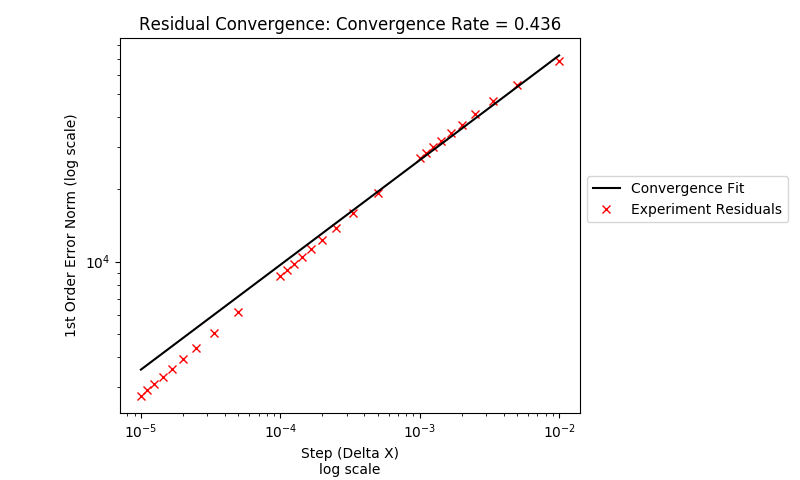
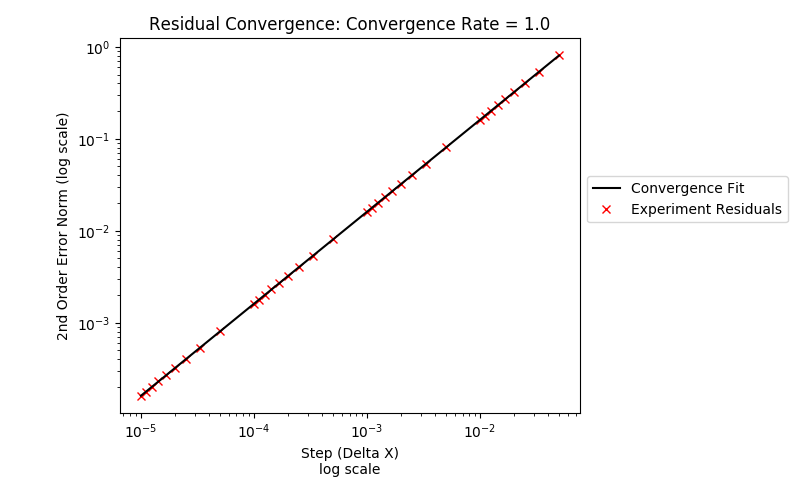
Updated error norms

diff --git a/homework_7/question_2.py b/homework_7/question_2.py
@@ -47,11 +47,7 @@ def p_norm(numerical: np.ndarray,
     :param order: Order of the p-norm summation
     :return: Norm Error
     """
-    errors = [
-        abs(aprx ** (1+n) - exct ** (1+n)) ** order
-        for n, (aprx, exct) in enumerate(zip(numerical, exact))
-    ]
-    return (dx * sum(errors)) ** (1 / order)
+    return (dx * sum(abs(numerical - exact) ** order)) ** (1 / order)
 
 
 def convergence_fit(num_points: int, a: float, k: float) -> float:
@@ -71,13 +67,13 @@ if __name__ == "__main__":
     output_dir.mkdir(parents=True, exist_ok=True)
 
     p_norms = {}
-    for magnitude in range(2, 5):
+    for magnitude in range(1, 5):
         for i in range(1, 11):
             step = 1 / (i * 10 ** magnitude)
             x_vals = np.arange(0, 2, step)
             num_pressure = get_dct_solution(x_vals, step)
             exact_pressure = exact_solution(x_vals)
-            error_norm = p_norm(num_pressure, exact_pressure, step, 1)
+            error_norm = p_norm(num_pressure, exact_pressure, step)
             p_norms[step] = error_norm
 
         fig, ax = plt.subplots(figsize=(8, 4.8))
@@ -96,7 +92,7 @@ if __name__ == "__main__":
             loc='upper left',
             bbox_to_anchor=(1, 0.65),
         )
-        fig.savefig(output_dir / f'dct_{int(1 / step)}_points.png')
+        fig.savefig(output_dir / f'dct_{round(1 / step)}_points.png')
 
     p_norms = pd.Series(p_norms).dropna().sort_index()
     (a, convergence_rate), *_ = curve_fit(
@@ -115,7 +111,7 @@ if __name__ == "__main__":
     convergence_rate = round(convergence_rate, 3)
     ax.set_title(f"Residual Convergence: Convergence Rate = {convergence_rate}")
     ax.set_xlabel('Step (Delta X)\nlog scale')
-    ax.set_ylabel('1st Order Error Norm (log scale)')
+    ax.set_ylabel('2nd Order Error Norm (log scale)')
 
     plt.legend(
         [residual_fit, experiment],
@@ -125,6 +121,5 @@ if __name__ == "__main__":
     )
 
     fig.savefig(output_dir / 'convergence_plot.png')
-
 
     print()
